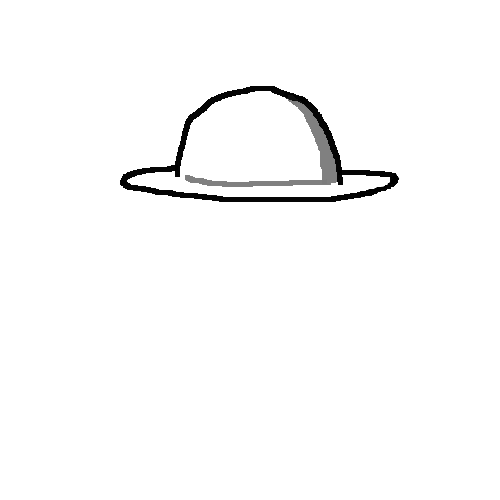
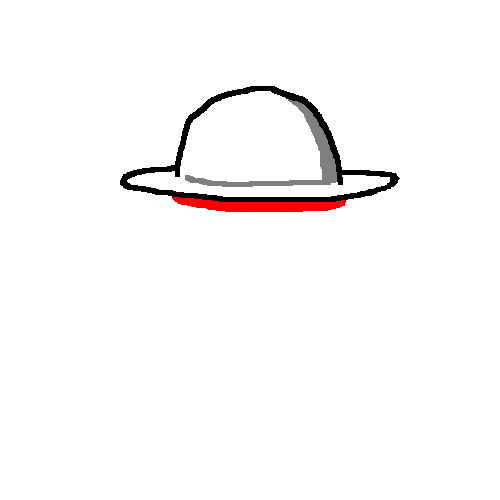
ombre portée chapeau + ombre oeil

Changed region(s): [[0.33, 0.39, 0.69, 0.45]]

diff --git a/createAvatar.py b/createAvatar.py
@@ -14,6 +14,7 @@ class Character():
             self.seed = random.randrange(9999)
         else:
             self.seed=seed
+        #self.seed=5576
         self.sz=10
         self.rnd=random.Random(int(self.seed))
         self.parts={
@@ -108,24 +109,67 @@ class Application(tk.Tk):
         if(character==None):
             character=ctx.currentCharacter
         for trait in character.parts:
+            light=131
+            dark=110
+
             filepath=os.getcwd()+"/"+character.parts[trait]['path']
             im = Image.open(filepath)
             im = im.convert('RGBA')
             data = np.array(im)
-            red, green, blue, alpha = data.T 
+            red, green, blue, alpha = data.T
+            
+            filepatheye=os.getcwd()+"/"+character.parts['eyes']['path']
+            imeye = Image.open(filepatheye)
+            imeye = imeye.convert('RGBA')
+            dataeye = np.array(imeye)
+            redeye, greeneye, blueeye, alphaeye = dataeye.T
+            white_areaseye = (redeye > light) & (blueeye > light) & (greeneye > light)
+            filepathhead=os.getcwd()+"/"+character.parts['headshapes']['path']
+            imhead = Image.open(filepathhead)
+            imhead = imhead.convert('RGBA')
+            datahead = np.array(imhead)
+            redhead, greenhead, bluehead, alphahead = datahead.T
+            white_areashead = (redhead > light) & (bluehead > light) & (greenhead > light)
+
             light=131
             dark=110
+            
             white_areas = (red > light) & (blue > light) & (green > light)
             black_areas = (red < dark) & (blue < dark) & (green < dark)
             grey_areas = (red>=dark)&(red<=light) &(blue>=dark)&(blue<=light) &(green>=dark)&(green<=light)
-
-            data[..., :-1][white_areas.T] = character.parts[trait]['color']
+            green_areas = (red == 0) & (blue == 0) & (green == 255)
+            
             grey_replacement=character.parts[trait]['color']
             grey_replacement=(grey_replacement[0]*0.75,grey_replacement[1]*0.75,grey_replacement[2]*0.75)
-            print(grey_replacement,trait)
-            data[..., :-1][grey_areas.T] =grey_replacement
-            print(True in grey_areas.T)
+            
+            green_replacement=character.parts['headshapes']['color']
+            green_replacement=(green_replacement[0]*0.75,green_replacement[1]*0.75,green_replacement[2]*0.75)
+
+            red_replacement=character.parts['eyes']['color']
+            red_replacement=(red_replacement[0]*0.75,red_replacement[1]*0.75,red_replacement[2]*0.75)
+            
+            data[..., :-1][white_areas.T] = character.parts[trait]['color']
             data[..., :-1][black_areas.T] =(0,0,0)
+            data[..., :-1][grey_areas.T] =grey_replacement
+            data[..., :-1][green_areas.T] =green_replacement
+
+            
+            if(trait=='hats'):
+                for i in range(len(data)):
+                    for j in range(len(data[i])):
+                        if(not np.array_equal(data[..., :-1][i][j],[0,0,0]) and not np.array_equal(dataeye[..., :-1][i][j],[0,0,0])):
+                            data[..., :-1][i][j]=red_replacement
+                        if( np.array_equal(data[..., :-1][i][j],[255,0,0]) and np.array_equal(dataeye[i][j],[0,0,0,255])):
+                            data[..., :-1][i][j]=(0,0,0)
+                        if(np.array_equal(data[..., :-1][i][j],[255,0,0]) and not np.array_equal(datahead[..., :-1][i][j],[0,0,0])):
+                            data[..., :-1][i][j]=green_replacement
+                        if( np.array_equal(data[..., :-1][i][j],[255,0,0])
+                            and (np.array_equal(datahead[i][j],[0,0,0,255])
+                                 or np.array_equal(datahead[i][j],[0,0,0,0])
+                                 )):
+                            data[i][j]=(0,0,0,0)
+            
+
             im2 = Image.fromarray(data)
 
             img= ImageTk.PhotoImage(im2)
